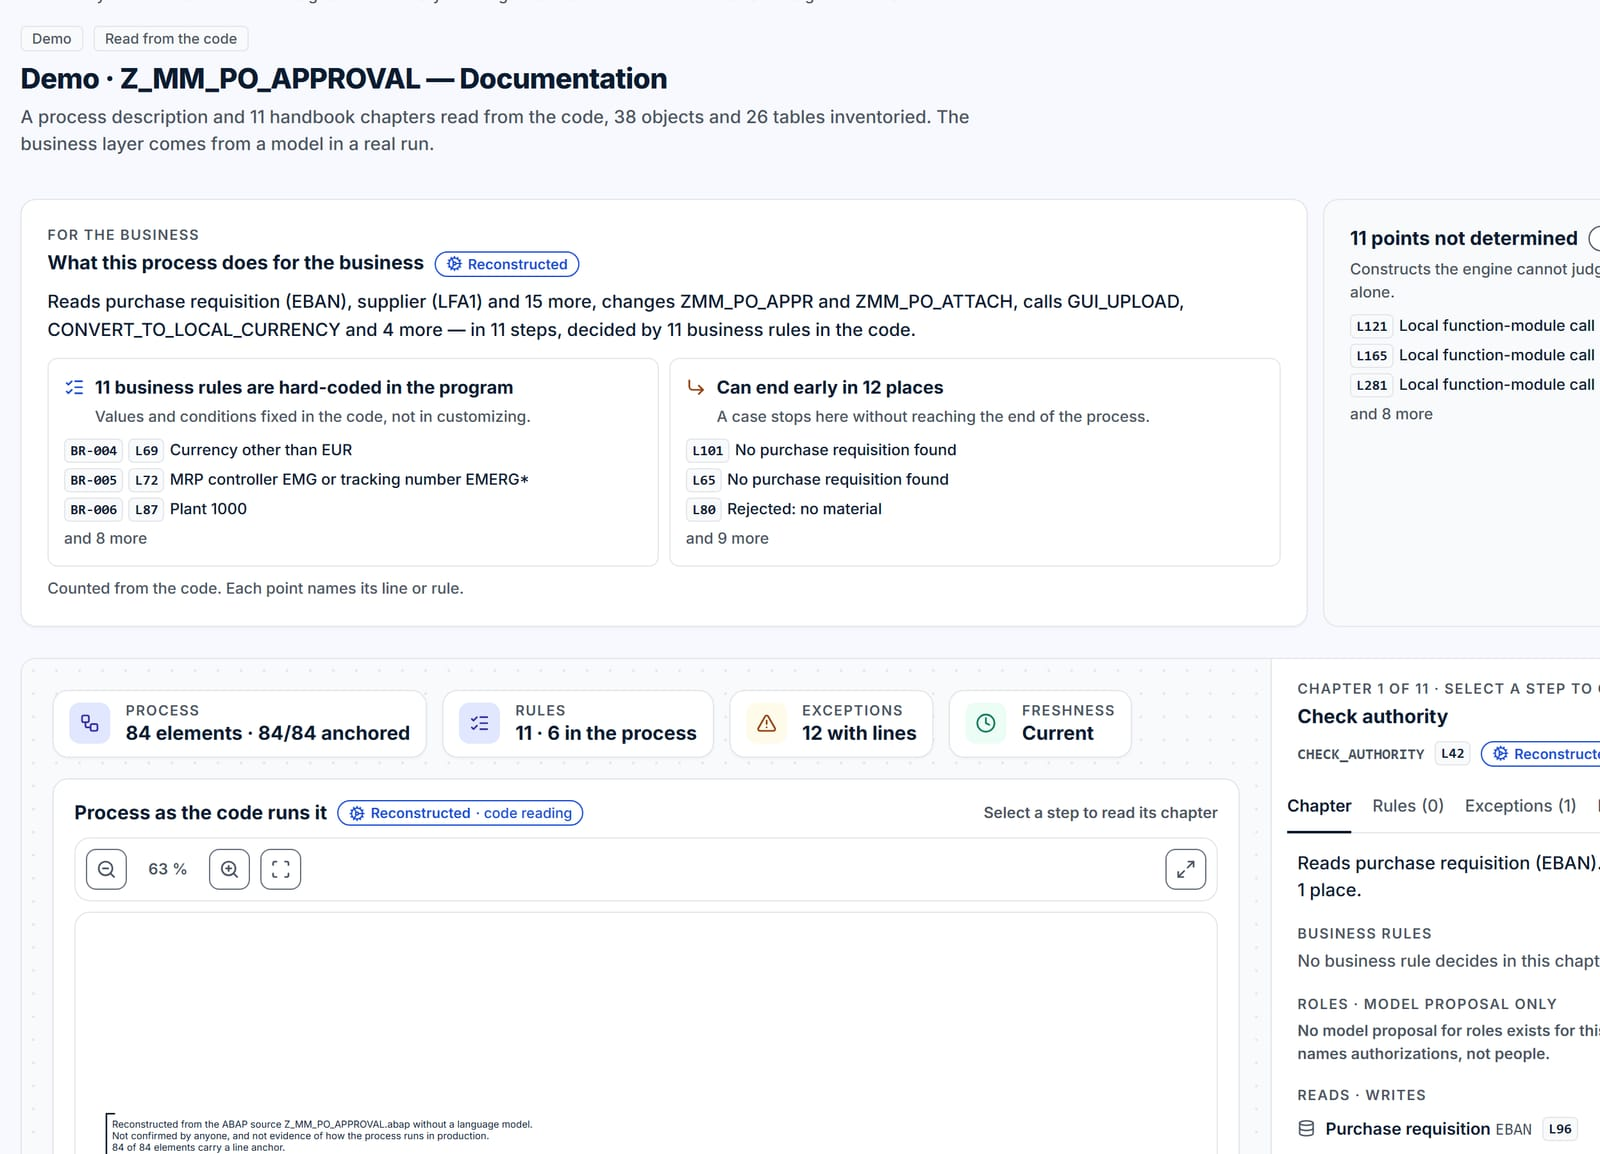
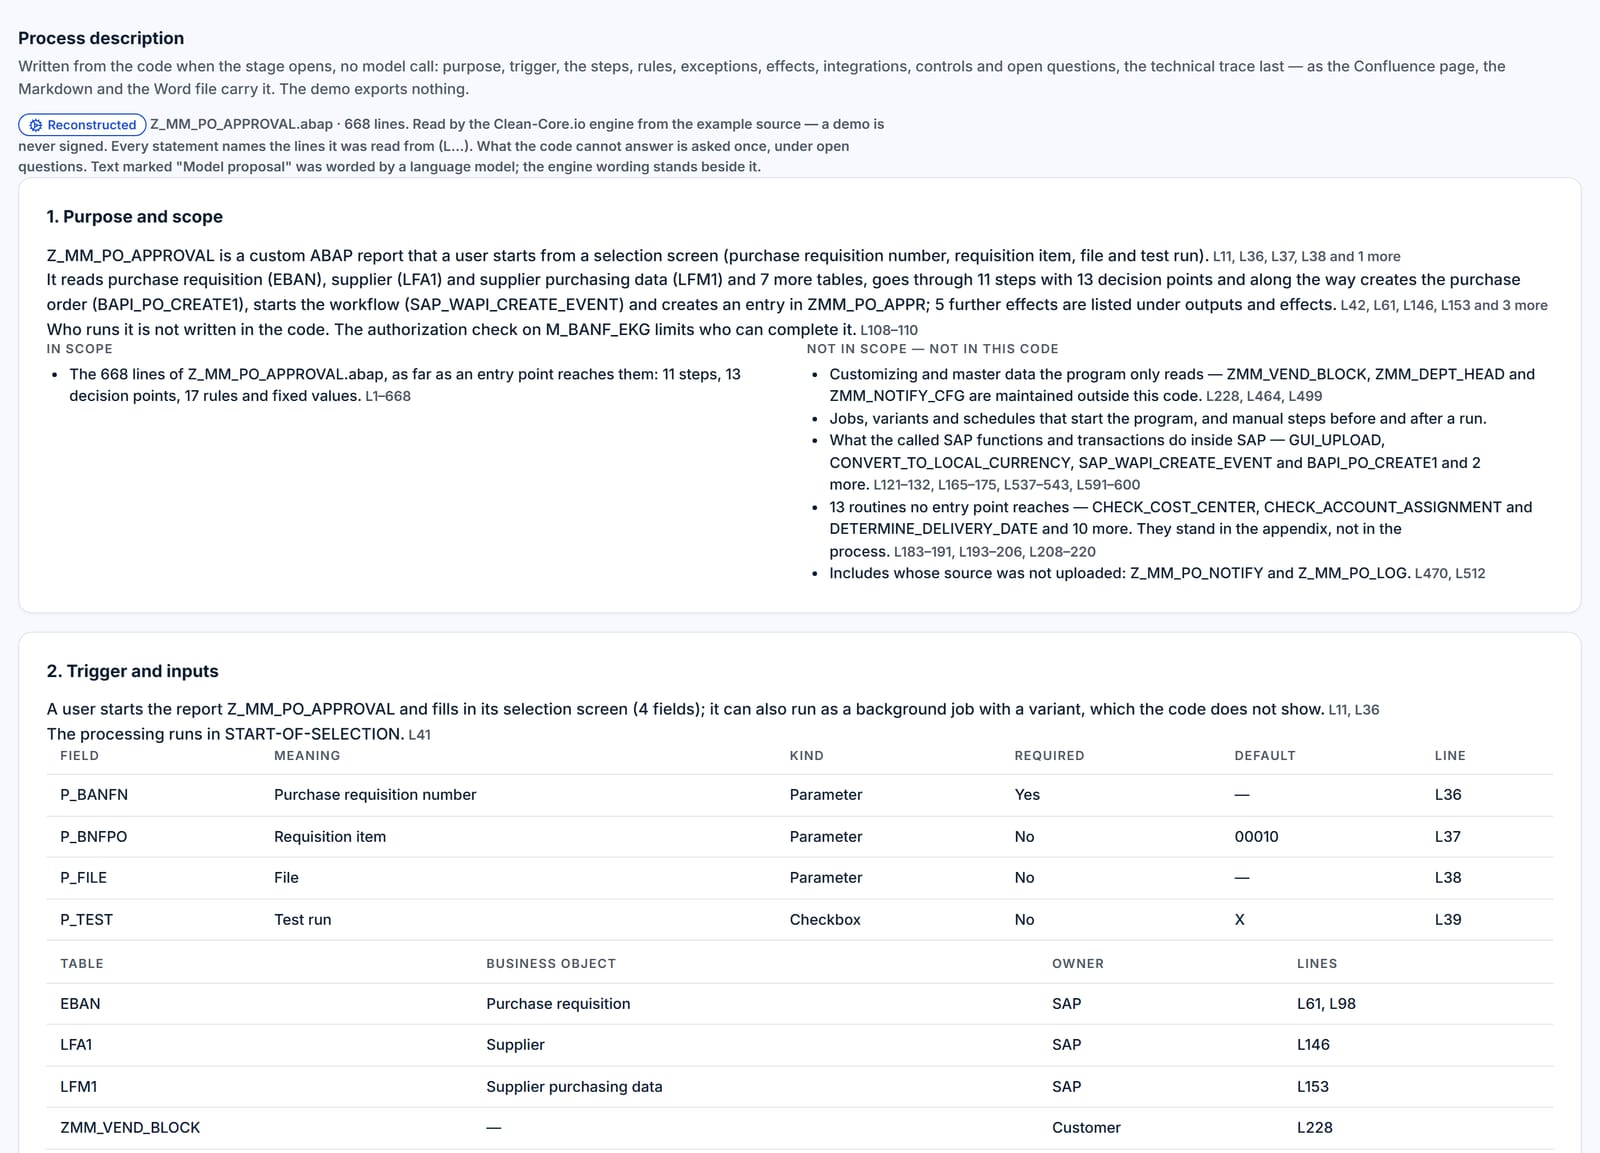
chore(landing): Documentation still shows the process description; maps drawn before the shot
The capture waits until a process map on the page has drawn its nodes, and
photographs the demo's Documentation from its process description (header,
purpose and scope, trigger and inputs) at the frame's full width, clear of the
sticky header. Business view and tour re-taken with the next step's 'after
that'. Alt text and README caption follow; whitepaper PDF re-rendered.

diff --git a/tests/capture-screens.spec.ts b/tests/capture-screens.spec.ts
@@ -352,6 +352,21 @@ test.describe('capture', () => {
 test.describe('capture the landing page views', () => {
   test.skip(process.env.CAPTURE_LANDING !== '1', 'set CAPTURE_LANDING=1 to run');
 
+  /**
+   * A process map is drawn after the page stands (the canvas is a client-only
+   * import), so a picture taken too early shows an empty white box. Where a
+   * map is on the page, wait until it has drawn its nodes.
+   */
+  const waitForDrawnMaps = async (page: Page) => {
+    const canvas = page.locator('[data-process-map-canvas]');
+    try {
+      await canvas.first().waitFor({ state: 'attached', timeout: 15000 });
+    } catch {
+      return; // no map on this page
+    }
+    await expect.poll(() => page.locator('[data-map-node]').count(), { timeout: 90000 }).toBeGreaterThan(5);
+  };
+
   /** A fresh community account in the emulator — no admin claim — signed in on `page`. */
   const signIn = async (page: Page) => {
     if (!getApps().length) initializeApp(firebaseConfig);
@@ -397,6 +412,7 @@ test.describe('capture the landing page views', () => {
       await expect(page.locator('[data-demo-ready="true"]')).toBeAttached({ timeout: 90000 });
       // The dev server's own badge is not part of the product.
       await page.addStyleTag({ content: 'nextjs-portal{display:none!important}' });
+      await waitForDrawnMaps(page);
       await page.waitForTimeout(2500);
       await assertNoTermsGate(page, `/demo/workspace${query}`);
       if (process.env.CAPTURE_LANDING_DEBUG) {
@@ -538,6 +554,7 @@ test.describe('capture the landing page views', () => {
         }
         await expect(page.getByTestId('demo-forecast')).toBeVisible({ timeout: 10000 });
       }
+      await waitForDrawnMaps(page);
       // No focus ring and no hover state in the picture.
       await page.evaluate(() => (document.activeElement as HTMLElement | null)?.blur?.());
       await page.mouse.move(0, 0);
@@ -548,14 +565,26 @@ test.describe('capture the landing page views', () => {
         await page.screenshot({ path: path.join(process.env.CAPTURE_LANDING_DEBUG, `full-stage-${phase.key}.jpg`), fullPage: true, type: 'jpeg', quality: 60 });
         await page.evaluate(() => window.scrollTo(0, 0));
       }
-      const box = (await title.boundingBox())!;
-      const wide = phase.key === 'design';
+      // Documentation is a process description written when the stage opens (ADR-077):
+      // its picture starts at that description, below the map and the chapters.
+      const focus = phase.key === 'documentation' && !fromRun ? page.locator('[data-demo-process-document]').first() : null;
+      if (focus) {
+        // Clear of the sticky shell header.
+        await focus.evaluate((node) => {
+          (node as HTMLElement).style.scrollMarginTop = '110px';
+          node.scrollIntoView({ block: 'start' });
+        });
+        await page.waitForTimeout(800);
+      }
+      const box = (await (focus ?? title).boundingBox())!;
+      // Design's canvas and the process description use the frame's full width.
+      const wide = phase.key === 'design' || focus !== null;
       const width = wide ? 1408 : 1248;
       const clip = {
         // From the frame's left edge (ADR-063: every stage starts at the same x), not a fixed offset.
         x: Math.max(0, Math.min(Math.round(box.x) - 16, 1440 - width)),
         // The demo's tags, or the real page's eyebrow and back link, above the title.
-        y: Math.max(0, Math.round(box.y - (fromRun ? 60 : 48))),
+        y: Math.max(0, Math.round(box.y - (focus ? 24 : fromRun ? 60 : 48))),
         width,
         height: Math.round((width * 900) / 1248),
       };

diff --git a/lib/landing-stages.ts b/lib/landing-stages.ts
@@ -77,7 +77,7 @@ export const LANDING_STAGE_TEXT: Readonly<Record<PhaseKey, LandingStageText>> = 
     ],
     worker: 'engine',
     provenance: ['reconstructed', 'proposed'],
-    shows: 'what the process does for the business — its hard-coded rules and early ends with their lines — above the process map read from the code beside its first chapter',
+    shows: 'the top of the process description written from the code: what the program does and for whom, what is in and out of scope, and the selection screen and tables it starts from, every statement with its lines',
   },
   testing: {
     lines: [

diff --git a/README.md b/README.md
@@ -23,10 +23,10 @@ is not affiliated with or endorsed by SAP SE.
 [clean-core.io](https://clean-core.io) · source: [github.com/sonnyfrenzel-rgb/clean-core.io](https://github.com/sonnyfrenzel-rgb/clean-core.io) ·
 Apache License 2.0 · release notes: [`CHANGELOG.md`](CHANGELOG.md)
 
-![The Documentation tool of the demo project Z_MM_PO_APPROVAL: what the process does for the business, read from the code, above the process reconstructed as BPMN, each step with the line it came from, and the first chapter beside it](public/landing/stage-documentation.jpg)
+![The Documentation tool of the demo project Z_MM_PO_APPROVAL: the process description written from the code — purpose and scope, trigger and inputs, every statement with the lines it was read from](public/landing/stage-documentation.jpg)
 
-*The demo project `Z_MM_PO_APPROVAL` (fictitious code): the process the program runs, read
-from the code and drawn as BPMN. Captured from the workspace by
+*The demo project `Z_MM_PO_APPROVAL` (fictitious code): the process description the Documentation
+tool writes from the code when it opens. Captured from the workspace by
 `tests/capture-screens.spec.ts` (`CAPTURE_LANDING=1`). No mockup images.*
 
 Read more: [the whitepaper](https://clean-core.io/whitepaper) (also as PDF) · [how it works,
